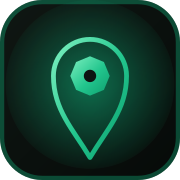
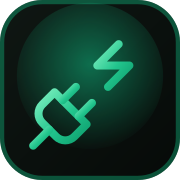
feat: revert brand to Sure Plug, keep drawer/back-nav/rate-limit/grounded copy

Changed region(s): [[0.1389, 0.1944, 0.75, 0.8889], [0.7778, 0.6944, 0.8056, 0.7222], [0.75, 0.7222, 0.7778, 0.75]]

diff --git a/components/Hero.tsx b/components/Hero.tsx
@@ -1,7 +1,7 @@
 'use client'
 
 import { motion } from 'framer-motion'
-import { ArrowRight, Bus, ShieldCheck } from 'lucide-react'
+import { ArrowRight, PlugZap, ShieldCheck } from 'lucide-react'
 import { stats } from '@/lib/data'
 import { CtaButton, CtaLink } from './ui/cta'
 import { useRequest } from './request-context'
@@ -35,7 +35,8 @@ export function Hero() {
             transition={{ duration: 0.6, delay: 0.05 }}
             className="max-w-4xl text-balance text-5xl font-medium leading-[.98] tracking-[-.055em] text-white sm:text-7xl lg:text-[5.5rem] xl:text-[6.4rem]"
           >
-            Runarounds <span className="text-primary">end here.</span>
+            Your <span className="text-primary">Sure Plug</span> for Quality Tech, Design &amp;
+            Sourcing.
           </motion.h1>
 
           <motion.p
@@ -44,9 +45,7 @@ export function Hero() {
             transition={{ duration: 0.6, delay: 0.15 }}
             className="mt-8 max-w-xl text-pretty text-lg leading-8 text-muted-foreground"
           >
-            The final destination for your tech, design, and sourcing needs. Direct execution by
-            specialized developers &amp; designers — real timelines, direct replies, no more
-            runarounds.
+            Fast, verified, and 100% reliable. Direct execution with zero middleman delays.
           </motion.p>
 
           <motion.div
@@ -92,9 +91,9 @@ export function Hero() {
             <div className="animate-float rounded-[2rem] border border-white/10 bg-white/[0.035] p-5 shadow-2xl">
               <div className="flex h-full flex-col justify-between rounded-2xl border border-white/10 bg-[#111817] p-7">
                 <div className="flex items-center justify-between">
-                  <span className="font-mono text-xs tracking-[.2em] text-primary">STOP / 001</span>
+                  <span className="font-mono text-xs tracking-[.2em] text-primary">PLUG / 001</span>
                   <span className="flex size-8 items-center justify-center rounded-full bg-primary/15 text-primary shadow-[0_0_20px_hsl(var(--primary)/.25)]">
-                    <Bus className="size-4" />
+                    <PlugZap className="size-4" />
                   </span>
                 </div>
                 <div className="my-8">
@@ -102,7 +101,7 @@ export function Hero() {
                     Execution status
                   </p>
                   <p className="mt-3 text-5xl font-medium tracking-[-.06em] text-white">
-                    On route<span className="text-primary">.</span>
+                    Locked in<span className="text-primary">.</span>
                   </p>
                 </div>
                 <div className="flex items-center gap-3 border-t border-white/10 pt-5 text-sm text-muted-foreground">

diff --git a/app/layout.tsx b/app/layout.tsx
@@ -5,19 +5,19 @@ import { RequestProvider } from '@/components/request-context'
 import { site } from '@/lib/site'
 import './globals.css'
 
-const title = `Last Bus Stop – Direct Execution, No Runarounds`
+const title = `Sure Plug – Direct Execution, No Middlemen`
 
 export const metadata: Metadata = {
   metadataBase: new URL(site.baseUrl),
   title: {
     default: title,
-    template: '%s · Last Bus Stop',
+    template: '%s · Sure Plug',
   },
   description:
-    'The final destination for your tech, design, and sourcing needs. Last Bus Stop connects you directly with specialized developers & designers — real timelines, direct replies, no more runarounds.',
+    'Fast, verified, and 100% reliable. Direct execution with zero middleman delays. Sure Plug connects you directly with specialized developers & designers — real timelines, direct replies, no ghosting.',
   applicationName: site.name,
   keywords: [
-    'Last Bus Stop',
+    'Sure Plug',
     'web development',
     'app development',
     'graphic design',
@@ -36,13 +36,13 @@ export const metadata: Metadata = {
     siteName: site.name,
     title,
     description:
-      'The final destination for your tech, design, and sourcing needs. Direct execution by specialized developers & designers — real timelines, direct replies, no more runarounds.',
+      'Fast, verified, and 100% reliable. Direct execution with zero middleman delays. Sure Plug connects you directly with specialized developers & designers — real timelines, direct replies, no ghosting.',
   },
   twitter: {
     card: 'summary',
     title,
     description:
-      'The final destination for your tech, design, and sourcing needs. Direct execution by specialized developers & designers — real timelines, direct replies, no more runarounds.',
+      'Fast, verified, and 100% reliable. Direct execution with zero middleman delays. Sure Plug connects you directly with specialized developers & designers — real timelines, direct replies, no ghosting.',
   },
   robots: {
     index: true,

diff --git a/app/terms/page.tsx b/app/terms/page.tsx
@@ -5,16 +5,16 @@ import { site } from '@/lib/site'
 export const metadata: Metadata = {
   title: 'Terms & Conditions',
   description:
-    'The agreed terms for using Last Bus Stop — how requests are processed, timelines, deposits, and client responsibilities.',
+    'The agreed terms for using Sure Plug — how requests are processed, timelines, deposits, and client responsibilities.',
 }
 
 export default function TermsPage() {
   return (
     <LegalLayout eyebrow="Legal" title="Terms & Conditions" updated="September 12, 2026">
-      <LegalSection heading="What Last Bus Stop is">
+      <LegalSection heading="What Sure Plug is">
         <p>
-          Last Bus Stop is a matching service. We connect clients with a vetted network of
-          independent specialists who carry out the work. Last Bus Stop is not the employer of these
+          Sure Plug is a matching service. We connect clients with a vetted network of
+          independent specialists who carry out the work. Sure Plug is not the employer of these
           specialists, and each job is delivered directly by the person assigned to you.
         </p>
       </LegalSection>
@@ -74,7 +74,7 @@ export default function TermsPage() {
 
       <LegalSection heading="Limitation of liability">
         <p>
-          Specialists and Last Bus Stop each work in good faith to deliver what was agreed. To the
+          Specialists and Sure Plug each work in good faith to deliver what was agreed. To the
           extent permitted by law, liability for a given request is limited to the amount you
           actually paid for that request. Nothing here limits your statutory rights.
         </p>

diff --git a/lib/notify.ts b/lib/notify.ts
@@ -29,7 +29,7 @@ function formatPayload(record: RequestRecord) {
 
 function formatTelegramText(payload: ReturnType<typeof formatPayload>) {
   return [
-    'NEW REQUEST — Last Bus Stop',
+    'NEW REQUEST — Sure Plug',
     '',
     `Name: ${payload.name}`,
     `Contact: ${payload.contact}`,
@@ -49,7 +49,7 @@ function formatEmailHtml(payload: ReturnType<typeof formatPayload>) {
     `<tr><td style="padding:8px 0;color:#6b7280;font-weight:600;white-space:nowrap;vertical-align:top">${label}</td><td style="padding:8px 0;color:#111827;vertical-align:top;word-break:break-word">${value}</td></tr>`
   return [
     '<div style="font-family:-apple-system,Segoe UI,Roboto,sans-serif;max-width:560px;margin:0 auto">',
-    '<h2 style="color:#059669;margin:0 0 16px">New request on Last Bus Stop</h2>',
+    '<h2 style="color:#059669;margin:0 0 16px">New request on Sure Plug</h2>',
     '<table style="border-collapse:collapse;width:100%">',
     row('Request', `<code>${esc(payload.id)}</code>`),
     row('Received', esc(payload.receivedAt)),
@@ -120,7 +120,7 @@ async function notifyResend(payload: ReturnType<typeof formatPayload>, timeoutMs
       method: 'POST',
       headers: { Authorization: `Bearer ${apiKey}`, 'Content-Type': 'application/json' },
       body: JSON.stringify({
-        from: process.env.REQUEST_NOTIFY_FROM || `Last Bus Stop <onboarding@resend.dev>`,
+        from: process.env.REQUEST_NOTIFY_FROM || `Sure Plug <onboarding@resend.dev>`,
         to,
         subject: `New request: ${payload.service} — ${payload.name}`,
         html: formatEmailHtml(payload),

diff --git a/app/faq/page.tsx b/app/faq/page.tsx
@@ -7,17 +7,17 @@ import { site } from '@/lib/site'
 export const metadata: Metadata = {
   title: 'FAQ',
   description:
-    'How Last Bus Stop works: request timelines, deposits, refunds, specialist vetting, and where to reach the team.',
+    'How Sure Plug works: request timelines, deposits, refunds, specialist vetting, and where to reach the team.',
 }
 
 const faqs: Array<{ q: string; a: string }> = [
   {
-    q: 'What exactly does Last Bus Stop do?',
+    q: 'What exactly does Sure Plug do?',
     a: 'We match you with a specialized developer or designer who actually does the work — web and app builds, design, product sourcing, strategy, and time-critical assistance. You talk to one real person, not a ticketing queue.',
   },
   {
-    q: 'Why "Last Bus Stop"?',
-    a: 'Because it is the final destination after every other option. No more juggling cold leads, chasing quotes, or projects that stall halfway. You arrive, you get matched, work gets done.',
+    q: 'Why "Sure Plug"?',
+    a: 'The name is the promise: one reliable point of contact for your tech, design, and sourcing needs. Plug in once, and the person who answers is connected to the person who does the work — no chasing, no middlemen.',
   },
   {
     q: 'How fast do I hear back after submitting a request?',

diff --git a/components/brand.tsx b/components/brand.tsx
@@ -1,7 +1,8 @@
+import { PlugZap } from 'lucide-react'
 import { cn } from '@/lib/utils'
 
 /**
- * Brand glyph: a location pin with a stop-sign (octagon) head — the "last bus stop".
+ * Brand glyph: an electric plug with a lightning bolt — the "Sure Plug".
  */
 export function BrandMark({ className, glyphClassName }: { className?: string; glyphClassName?: string }) {
   return (
@@ -12,19 +13,7 @@ export function BrandMark({ className, glyphClassName }: { className?: string; g
         className,
       )}
     >
-      <svg
-        viewBox="0 0 24 24"
-        fill="none"
-        stroke="currentColor"
-        strokeWidth="1.8"
-        strokeLinecap="round"
-        strokeLinejoin="round"
-        className={cn('size-4', glyphClassName)}
-      >
-        <path d="M12 21.5c-5.2-6.8-7-10.4-7-13.1a7 7 0 0 1 14 0c0 2.7-1.8 6.3-7 13.1Z" />
-        <path d="M15.5 8.5 14.5 11 12 12 9.5 11 8.5 8.5 9.5 6 12 5 14.5 6Z" fill="currentColor" stroke="none" />
-        <circle cx="12" cy="8.5" r="1.2" fill="currentColor" stroke="none" />
-      </svg>
+      <PlugZap className={cn('size-4', glyphClassName)} />
     </span>
   )
 }

diff --git a/components/Cta.tsx b/components/Cta.tsx
@@ -1,7 +1,7 @@
 'use client'
 
 import { motion } from 'framer-motion'
-import { ArrowRight, Bus } from 'lucide-react'
+import { ArrowRight, PlugZap } from 'lucide-react'
 import { CtaButton } from './ui/cta'
 import { useRequest } from './request-context'
 
@@ -18,9 +18,9 @@ export function Cta() {
         className="relative overflow-hidden rounded-3xl border border-primary/20 bg-primary/[0.06] p-8 text-center shadow-[inset_0_1px_0_hsl(var(--primary)/.15)] sm:p-16"
       >
         <span className="absolute inset-x-0 top-0 h-px bg-gradient-to-r from-transparent via-primary/60 to-transparent" />
-        <Bus className="mx-auto size-6 text-primary" />
+        <PlugZap className="mx-auto size-6 text-primary" />
         <h2 className="mx-auto mt-5 max-w-2xl text-balance text-4xl font-medium tracking-[-.045em] text-white sm:text-6xl">
-          Runarounds end at the last stop.
+          Have a request? We&apos;ve got a plug for that.
         </h2>
         <p className="mx-auto mt-5 max-w-lg leading-7 text-muted-foreground">
           Drop the brief below. We&apos;ll match it to the right specialist and come back with a

diff --git a/components/WhyUs.tsx b/components/WhyUs.tsx
@@ -15,13 +15,13 @@ export function WhyUs() {
           className="lg:sticky lg:top-28 lg:self-start"
         >
           <p className="mb-4 font-mono text-xs uppercase tracking-[.2em] text-primary">
-            Why the last stop
+            Why the plug
           </p>
           <h2 className="text-balance text-4xl font-medium tracking-[-.045em] text-white sm:text-5xl">
             Reliability is the <span className="text-muted-foreground">whole point.</span>
           </h2>
           <p className="mt-6 max-w-md leading-7 text-muted-foreground">
-            The internet is full of people who can do a thing. We built Last Bus Stop for people who
+            The internet is full of people who can do a thing. We built Sure Plug for people who
             actually do the thing — and reply to your messages while doing it.
           </p>
           <div className="mt-8 inline-flex items-center gap-2 rounded-full border border-white/10 bg-white/[0.03] px-4 py-2 text-xs text-muted-foreground">

diff --git a/app/privacy/page.tsx b/app/privacy/page.tsx
@@ -5,7 +5,7 @@ import { site } from '@/lib/site'
 export const metadata: Metadata = {
   title: 'Privacy Policy',
   description:
-    'How Last Bus Stop handles the personal data you submit through the request form — plain English, no legalese.',
+    'How Sure Plug handles the personal data you submit through the request form — plain English, no legalese.',
 }
 
 export default function PrivacyPage() {
@@ -42,7 +42,7 @@ export default function PrivacyPage() {
 
       <LegalSection heading="Who sees it">
         <p>
-          The request goes to the Last Bus Stop team and the specific specialist handling your job.
+          The request goes to the Sure Plug team and the specific specialist handling your job.
           To alert the team instantly, a submission may pass through a third-party messaging or
           email delivery service (for example a push-notification or email service). These
           providers only relay your message; none of them are allowed to use it for their own

diff --git a/lib/site.ts b/lib/site.ts
@@ -2,13 +2,13 @@ function resolveBaseUrl() {
   if (process.env.NEXT_PUBLIC_SITE_URL) {
     return process.env.NEXT_PUBLIC_SITE_URL.replace(/\/+$/, '')
   }
-  return 'https://lastbusstop.co'
+  return 'https://sureplug.co'
 }
 
 export const site = {
-  name: 'Last Bus Stop',
-  handle: '@lastbusstop.co',
-  tagline: 'The final destination for your tech, design, and sourcing needs.',
+  name: 'Sure Plug',
+  handle: '@sureplug.co',
+  tagline: 'Fast, verified, and 100% reliable. Direct execution with zero middleman delays.',
   email: 'nelsonemmanuel006@gmail.com',
   whatsapp: '+232 79 826 564',
   whatsappDigits: '23279826564',

diff --git a/components/back-home.tsx b/components/back-home.tsx
@@ -7,7 +7,7 @@ export function BackHome() {
       className="fixed left-4 top-24 z-30 inline-flex min-h-11 items-center gap-2 rounded-full border border-white/12 bg-background/85 px-4 text-xs font-medium text-muted-foreground backdrop-blur-md transition hover:border-white/25 hover:text-white sm:text-sm lg:relative lg:top-auto lg:left-auto lg:z-auto lg:my-0 lg:inline-flex lg:w-fit lg:border-0 lg:bg-transparent lg:p-0 lg:backdrop-blur-none lg:hover:border-primary/25 lg:hover:text-primary"
     >
       <ArrowLeft className="size-3.5" />
-      Back to Last Bus Stop
+      Back to Sure Plug
     </a>
   )
 }
